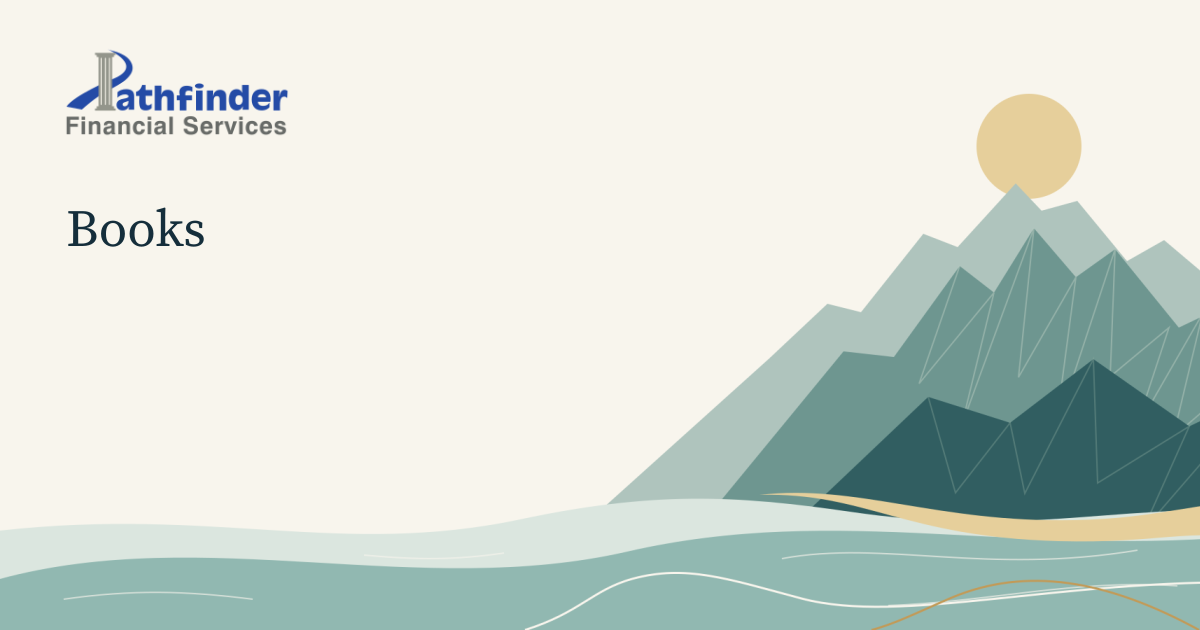
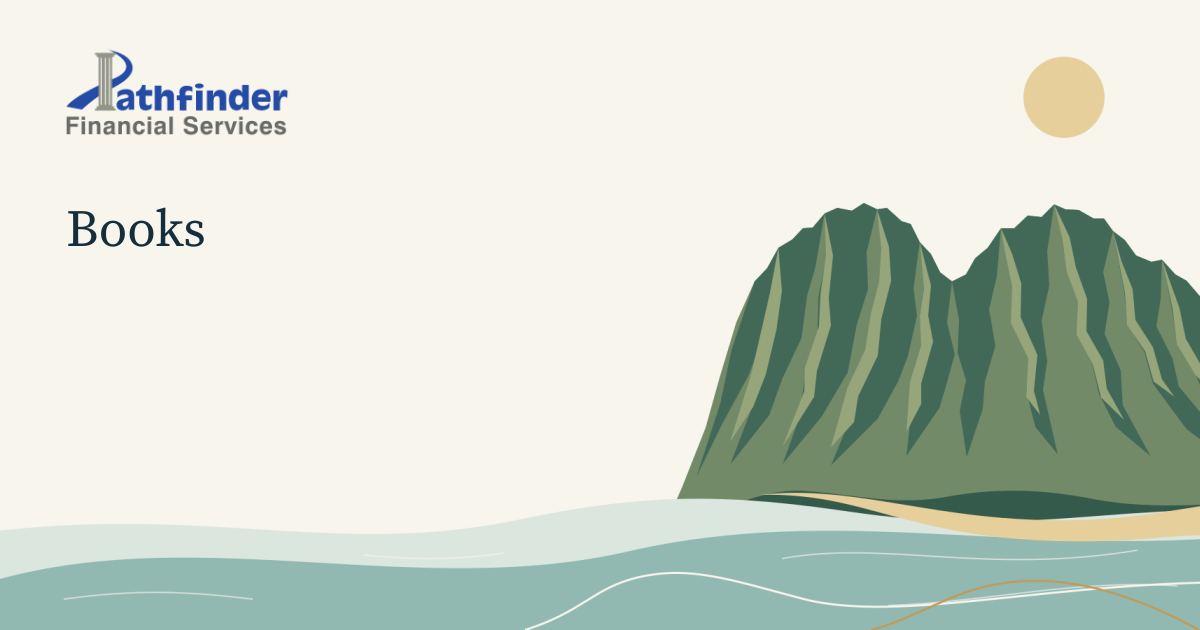
Refine windward cliffs with simpler fluting and shoreline

Changed region(s): [[0.4933, 0.0905, 1.0, 0.8143]]

diff --git a/README.md b/README.md
@@ -59,9 +59,14 @@ the mark at least equal to the height of the "Financial Services" lettering.
 Use the icon at small sizes; do not compress the full wordmark into a square.
 The original logo is preserved in `Pathfinder-Heading-Final.svg`.
 
-The Windward landscape is original vector illustration inspired by Oahu, not a
-photograph or a geographic map. Its mobile composition reserves the artwork for
-the space below the homepage copy. The route motif and diagrams share navy,
+The Windward landscape is an original vector illustration inspired by the Pali
+cliffs seen from Kailua and Maunawili, with a stylized ocean foreground. The
+desktop and mobile assets share the same cliff silhouette and ravine geometry.
+[Maunawili reference photography](https://oahuactivities.com/blogs/attractions/maunawili-falls/)
+informed the broad summit masses and fluted cliff faces. The single cliff wall
+uses tapered shadowed gullies, narrow ridge highlights, and one continuous lower
+slope; no photographic content is embedded in the artwork. The mobile composition
+reserves the artwork for the space below the homepage copy. The route motif and diagrams share navy,
 Pathfinder blue, teal, and a restrained gold accent.
 
 The existing photographs are unaltered. David's source is 148 x 200 pixels;
